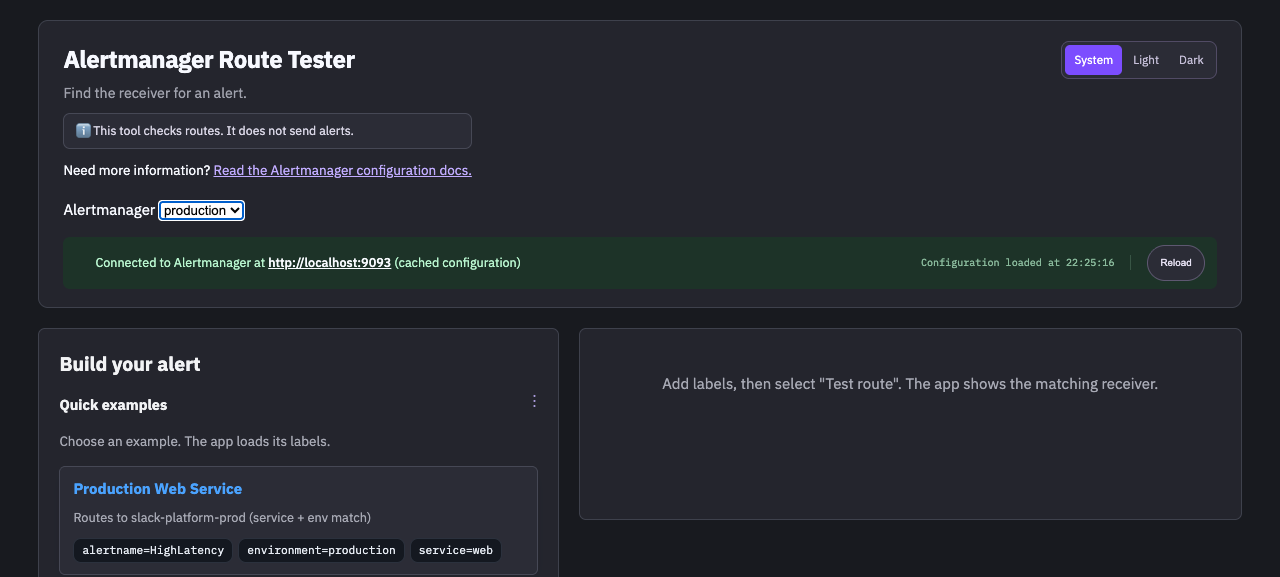
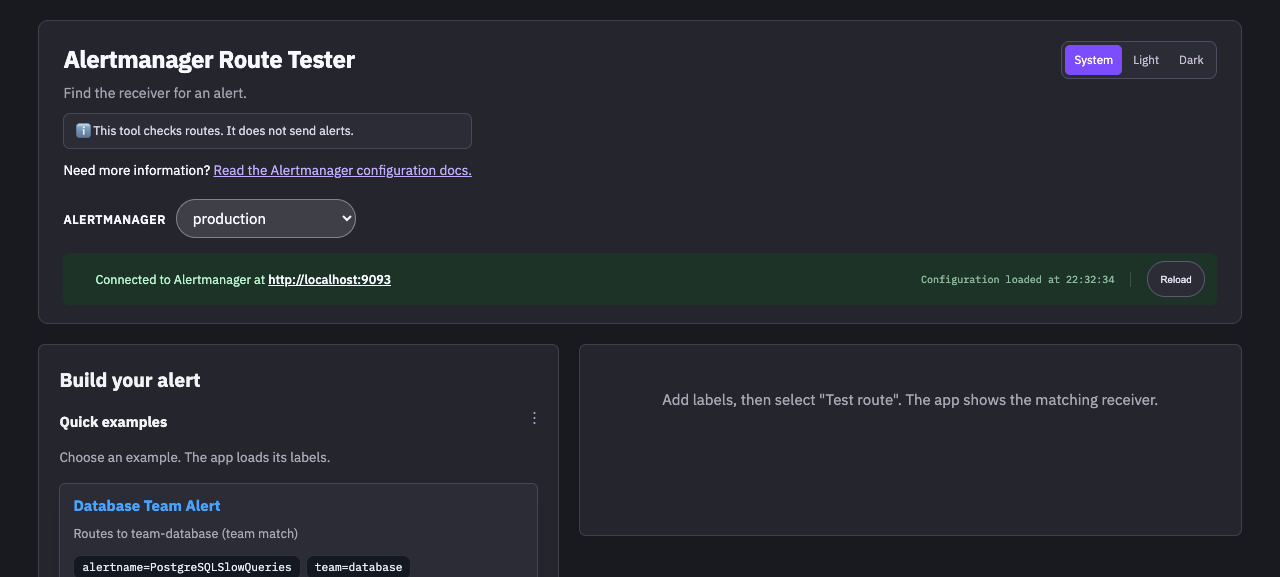
fix(ui): style Alertmanager selector

diff --git a/static/style.css b/static/style.css
@@ -151,6 +151,48 @@ header h1 {
     background: rgba(255, 255, 255, 0.3);
 }
 
+.alertmanager-selector {
+    display: flex;
+    align-items: center;
+    gap: 10px;
+    margin-top: 18px;
+    color: var(--header-text);
+}
+
+.alertmanager-selector label {
+    font-size: 0.82em;
+    font-weight: 600;
+    letter-spacing: 0.04em;
+    text-transform: uppercase;
+}
+
+.alertmanager-selector select {
+    min-width: 180px;
+    padding: 8px 34px 8px 12px;
+    border: 1px solid rgba(255, 255, 255, 0.35);
+    border-radius: 999px;
+    background-color: rgba(255, 255, 255, 0.12);
+    color: var(--header-text);
+    color-scheme: dark;
+    font: inherit;
+    cursor: pointer;
+}
+
+.alertmanager-selector select:hover {
+    background-color: rgba(255, 255, 255, 0.18);
+    border-color: rgba(255, 255, 255, 0.55);
+}
+
+.alertmanager-selector select:focus-visible {
+    outline: 2px solid var(--accent-color);
+    outline-offset: 2px;
+}
+
+.alertmanager-selector option {
+    background-color: #2a313f;
+    color: #f7f9ff;
+}
+
 .connection-status {
     margin-top: 15px;
 }
